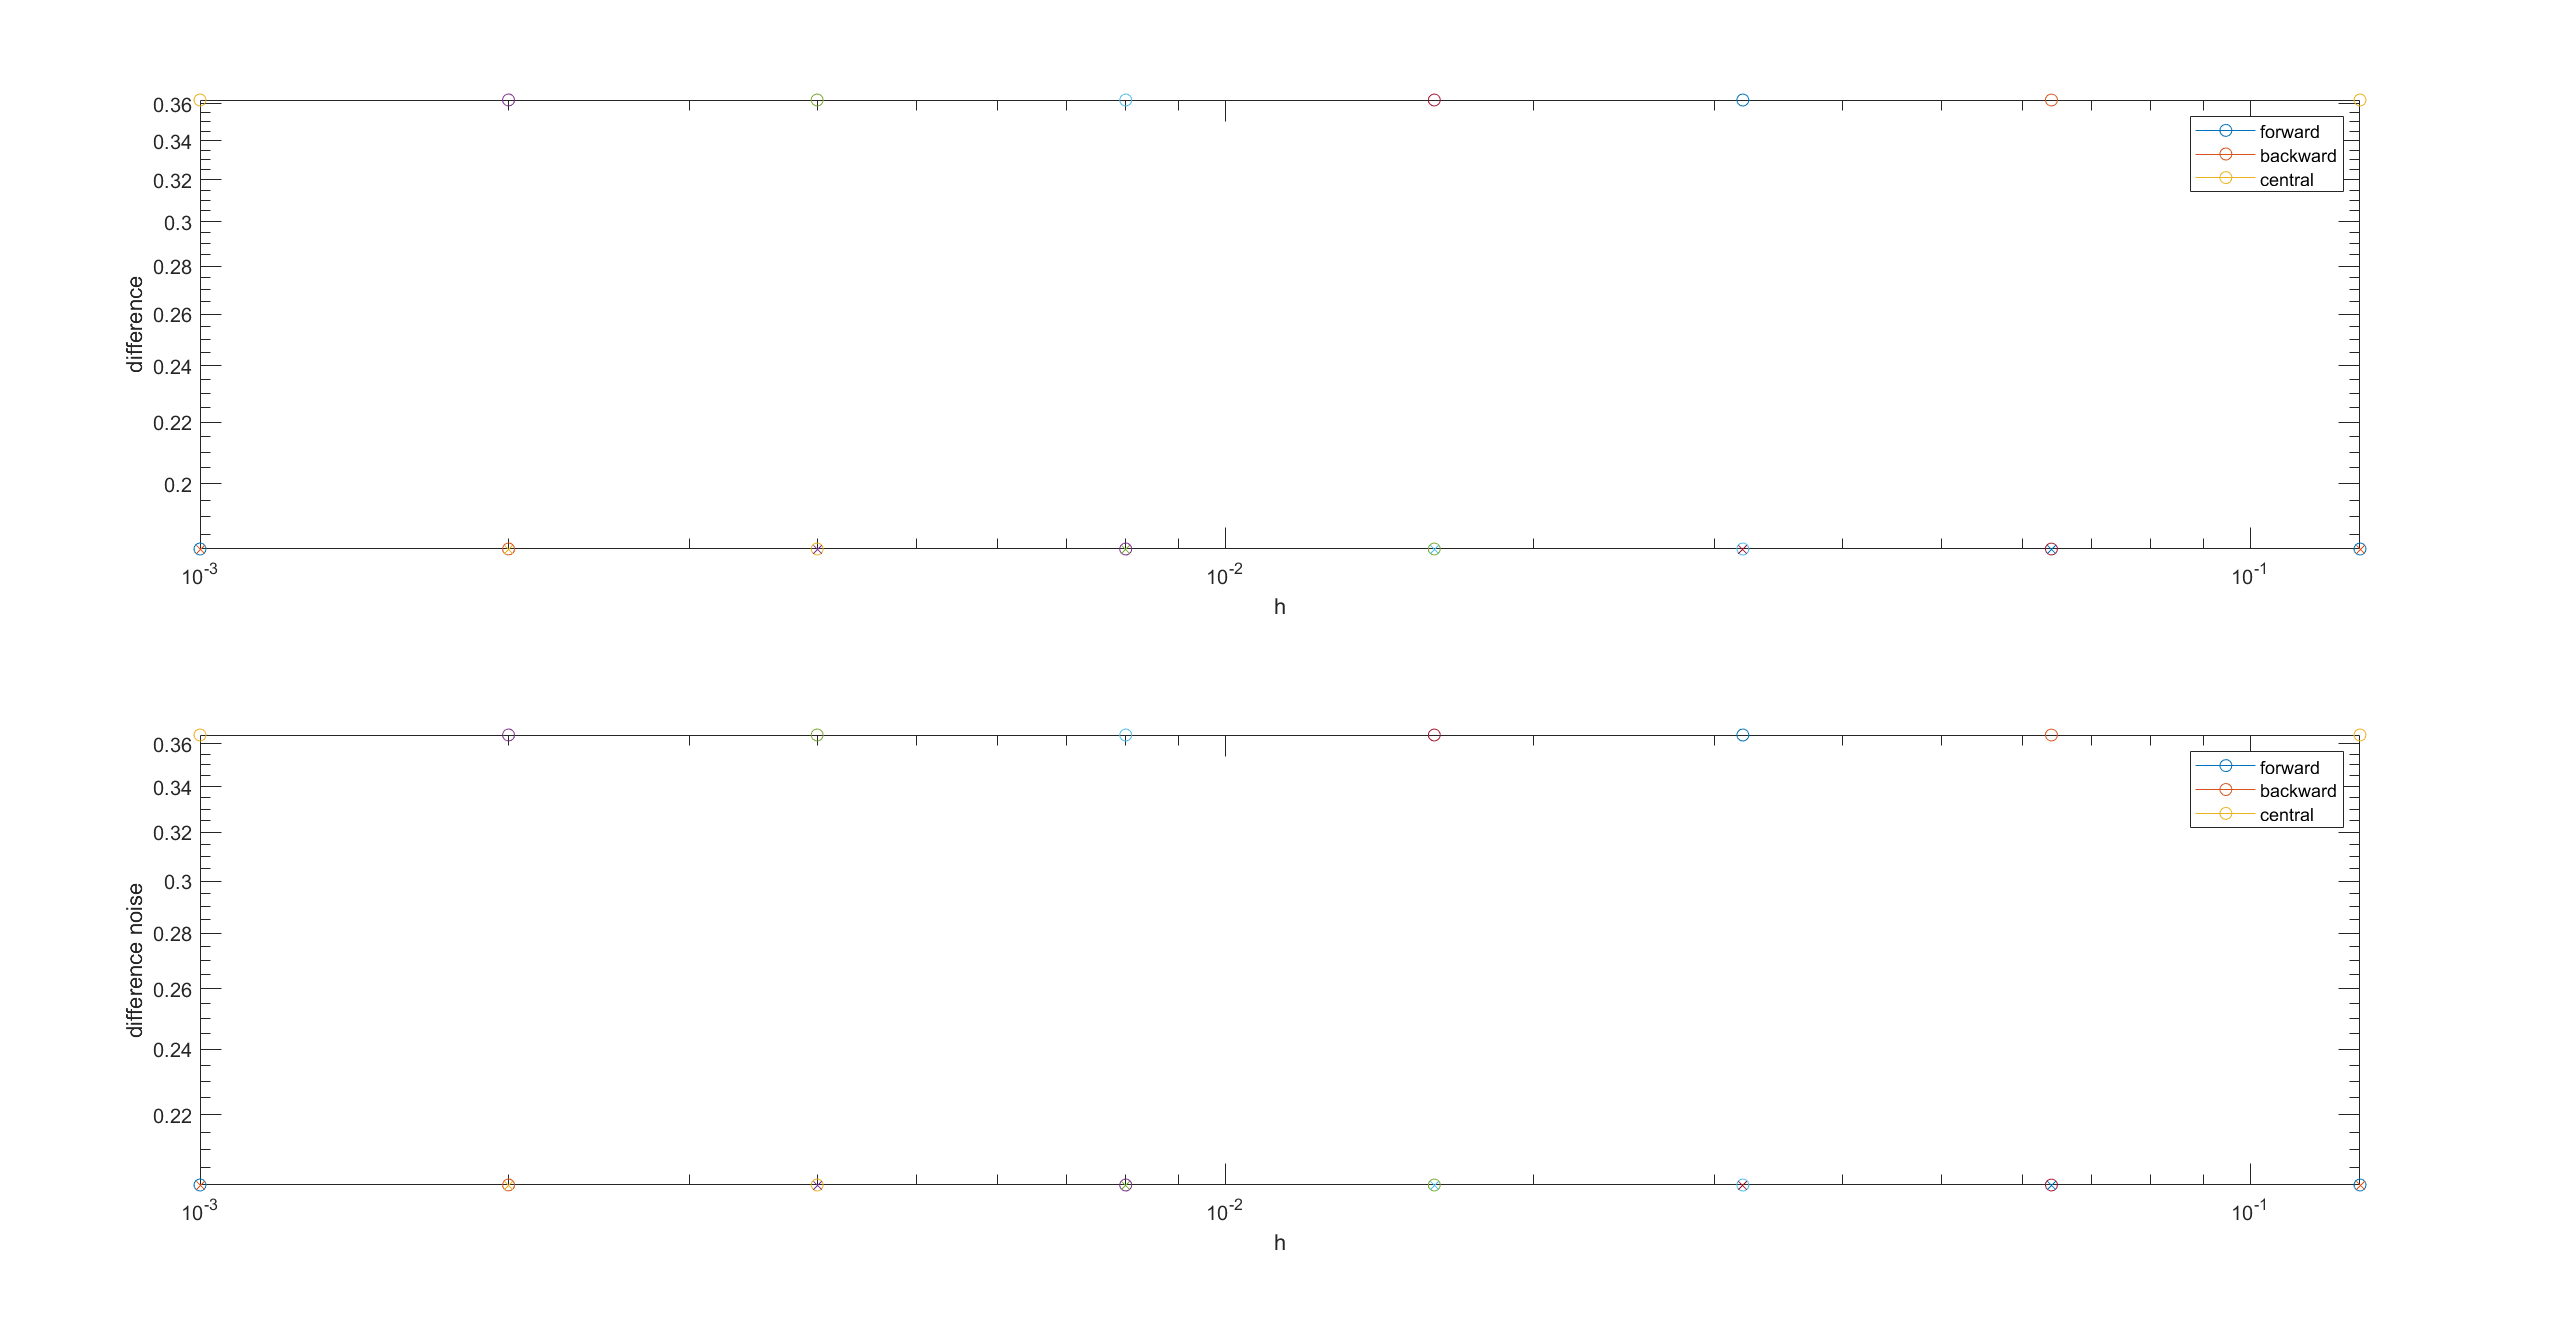
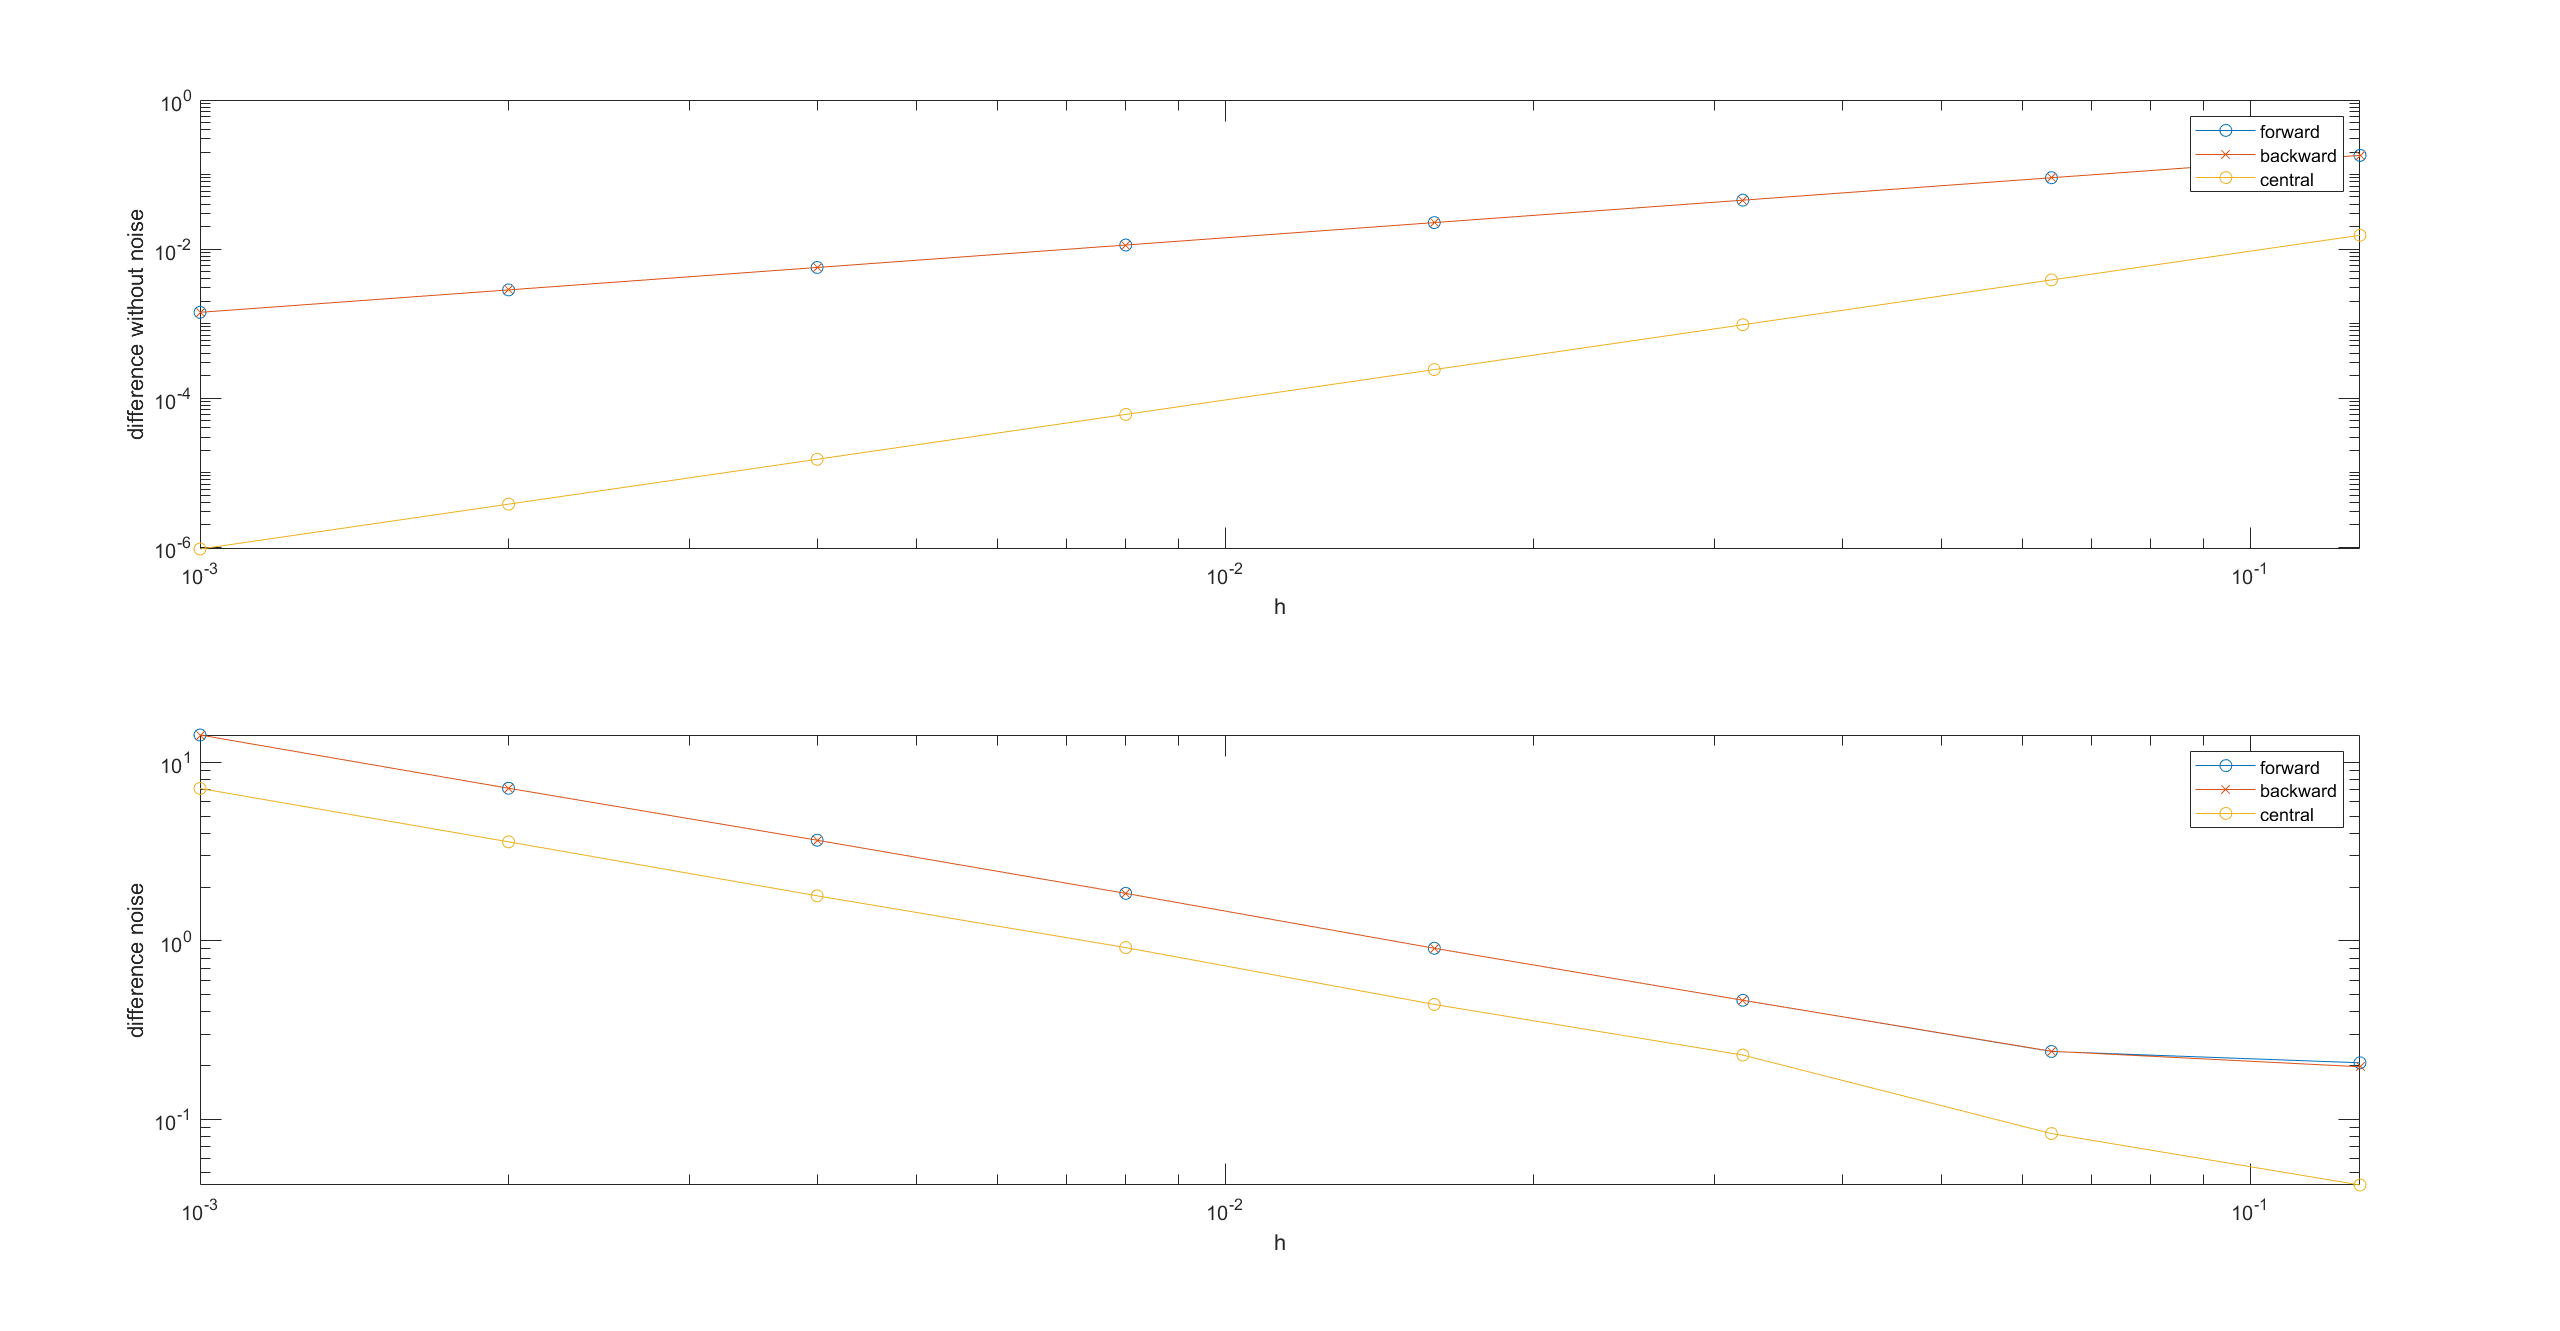
Fixed bug related to backward and central difference indexing

diff --git a/part_a.m b/part_a.m
@@ -51,10 +51,10 @@ for k = K
     % Compute L2/RMS error
     sum_of_squares = sum(squared_error);
     mean_squared = sum_of_squares/length(t_sampled_for_deriv);
-    fwd_rms = sqrt(mean_squared);
+    forward_diff(i) = sqrt(mean_squared);
     sum_of_squares_noise = sum(squared_error_noise);
     mean_squared_noise = sum_of_squares_noise/length(t_sampled_for_deriv);
-    fwd_rms_noise = sqrt(mean_squared_noise);
+    forward_diff_noise(i) = sqrt(mean_squared_noise);
 
     i = i + 1;
 end
@@ -78,18 +78,18 @@ for k = K
     squared_error_noise = zeros(1, length(t_sampled_for_deriv));
     for n = 2:length(y_prime_noise)+1
         y_prime(n-1) = (y_sampled(n) - y_sampled(n-1))./h;
-        squared_error(n-1) = (y_prime(n-1) - y_prime_true_sampled(n-1)).^2;
+        squared_error(n-1) = (y_prime(n-1) - y_prime_true_sampled(n)).^2;
         y_prime_noise(n-1) = (y_noise_sampled(n) - y_noise_sampled(n-1))./h;
-        squared_error_noise(n-1) = (y_prime_noise(n-1) - y_prime_true_sampled(n-1)).^2;
+        squared_error_noise(n-1) = (y_prime_noise(n-1) - y_prime_true_sampled(n)).^2;
     end
 
     % Compute L2/RMS error
     sum_of_squares = sum(squared_error);
     mean_squared = sum_of_squares/length(t_sampled_for_deriv);
-    bwd_rms = sqrt(mean_squared);
+    backward_diff(i) = sqrt(mean_squared);
     sum_of_squares_noise = sum(squared_error_noise);
     mean_squared_noise = sum_of_squares_noise/length(t_sampled_for_deriv);
-    bwd_rms_noise = sqrt(mean_squared_noise);
+    backward_diff_noise(i) = sqrt(mean_squared_noise);
 
     i = i + 1;
 end
@@ -113,18 +113,18 @@ for k = K
     squared_error_noise = zeros(1, length(t_sampled_for_deriv));
     for n = 2:length(y_prime_noise)+1
         y_prime(n-1) = (y_sampled(n+1) - y_sampled(n-1))./(2*h);
-        squared_error(n-1) = (y_prime(n-1) - y_prime_true_sampled(n-1)).^2;
+        squared_error(n-1) = (y_prime(n-1) - y_prime_true_sampled(n)).^2;
         y_prime_noise(n-1) = (y_noise_sampled(n+1) - y_noise_sampled(n-1))./(2*h);
-        squared_error_noise(n-1) = (y_prime_noise(n-1) - y_prime_true_sampled(n-1)).^2;
+        squared_error_noise(n-1) = (y_prime_noise(n-1) - y_prime_true_sampled(n)).^2;
     end
     
     % Compute L2/RMS error
     sum_of_squares = sum(squared_error);
     mean_squared = sum_of_squares/length(t_sampled_for_deriv);
-    cen_rms = sqrt(mean_squared);
+    central_diff(i) = sqrt(mean_squared);
     sum_of_squares_noise = sum(squared_error_noise);
     mean_squared_noise = sum_of_squares_noise/length(t_sampled_for_deriv);
-    cen_rms_noise = sqrt(mean_squared_noise);
+    central_diff_noise(i) = sqrt(mean_squared_noise);
 
     i = i + 1;
 end
@@ -132,12 +132,12 @@ end
 figure
 tiledlayout(2, 1)
 nexttile
-loglog(K*dt, fwd_rms, '-o', K*dt, bwd_rms, '-x', K*dt, cen_rms, '-o')
+loglog(K*dt, forward_diff, '-o', K*dt, backward_diff, '-x', K*dt, central_diff, '-o')
 legend('forward', 'backward', 'central')
 xlabel('h')
-ylabel('difference')
+ylabel('difference without noise')
 nexttile
-loglog(K*dt, fwd_rms_noise, '-o', K*dt, bwd_rms_noise, '-x', K*dt, cen_rms_noise, '-o')
+loglog(K*dt, forward_diff_noise, '-o', K*dt, backward_diff_noise, '-x', K*dt, central_diff_noise, '-o')
 legend('forward', 'backward', 'central')
 xlabel('h')
 ylabel('difference noise')
